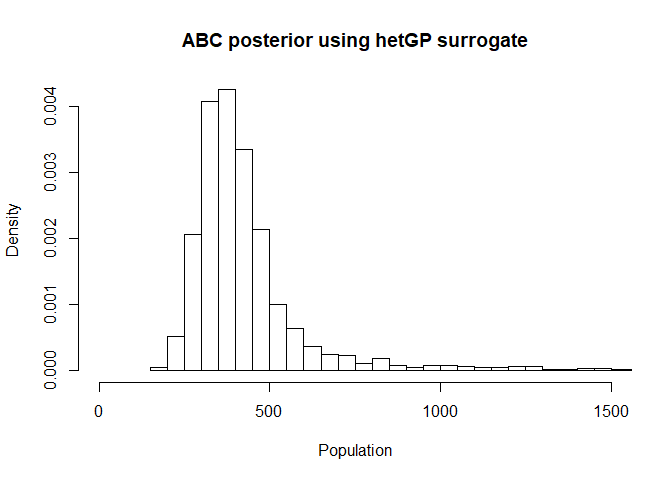
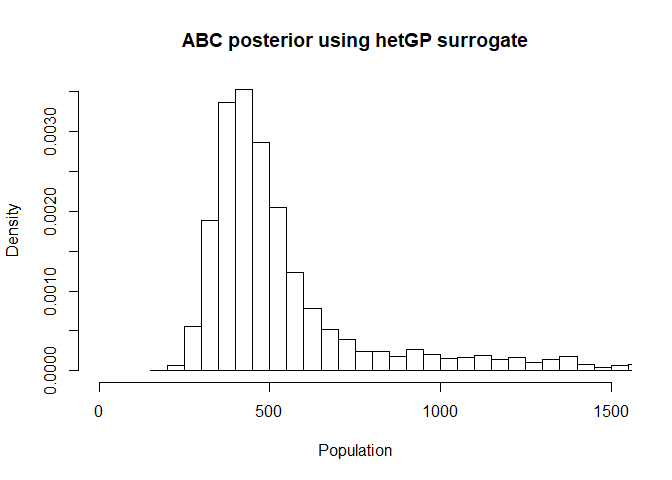
Making ABC apply to raw scale, rather than sqrt scale

diff --git a/fish_fits.md b/fish_fits.md
@@ -466,7 +466,7 @@ Step 1: we \`\`import’’ our observed data
 
 ``` r
 # observed data
-yobs <- sqrt(25) 
+yobs <- 25 
 ```
 
 Step 2: we simulate from our surrogate many times. Here we choose to use
@@ -474,12 +474,13 @@ the standard hetGP surrogate, although any could be used.
 
 ``` r
 set.seed(123)
-N <- 100000 ## number of ABC draws
+N <- 1000000 ## number of ABC draws
 xsim <- seq(0, 1, length.out = N) ## select x-values to try
 p.het <- predict(mod.het, matrix(xsim, ncol = 1)) ## predictions using hetGP
 pvar.het <- p.het$sd2 + p.het$nugs ## prediction var
 
 ysim <- rnorm(N, mean = p.het$mean, sd = sqrt(pvar.het)) ## simulate from normal (hetGP gives mean and variance of this normal)
+ysim <- ysim^2 # undo sqrt transform
 ysim <- as.integer(ysim) ## take the integer part (can't have half a fish...)
 ```
 
@@ -489,7 +490,10 @@ Step 3: we check which simulated values equal the observed value
 ## ABC
 x.ABC <- xsim[which(ysim == yobs)] ## check which simulations equal the observation
 x.ABC.native <- x.ABC * (upper_b - lower_b) + 150 ## convert these matching x values into the right scale (not (0,1))
+print(length(x.ABC.native)) #how many accepted samples?
 ```
+
+    ## [1] 3811
 
 Step 4: plot the resulting posterior histogram
 
